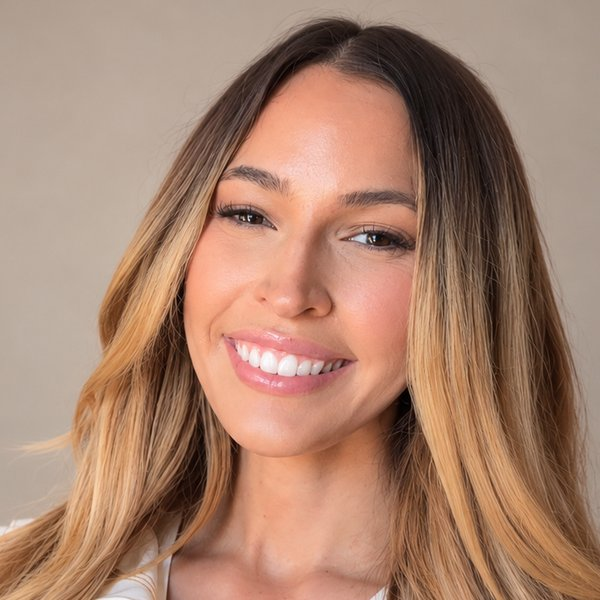
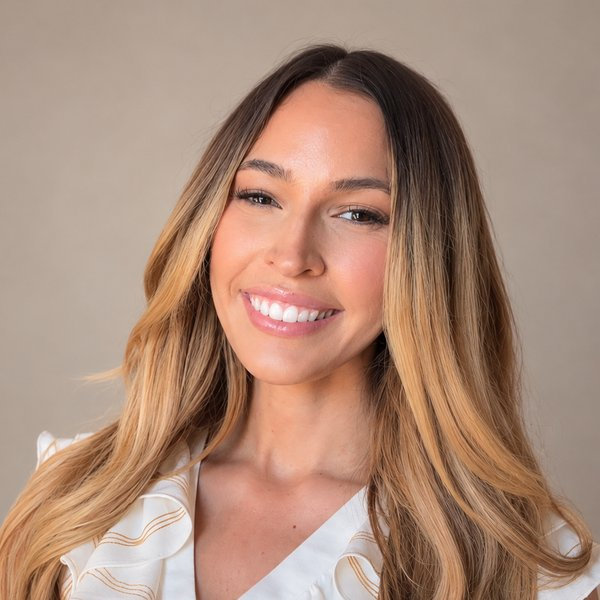
About: zoom out headshot; Nurse instead of LPN
Claude-Session: https://claude.ai/code/session_01E912zwUzE3eSxdDydVqBLX

diff --git a/index.html b/index.html
@@ -246,9 +246,9 @@ footer a:hover{color:var(--teal-light)}
   <h2>A nurse who knows <em>both sides of the desk</em></h2>
   <div class="about-grid">
     <div class="about-visual">
-      <img class="about-photo" src="images/amanda-bosley.jpg" alt="Amanda Bosley, LPN, founder of Clarity Med Operations" width="150" height="150">
+      <img class="about-photo" src="images/amanda-bosley.jpg" alt="Amanda Bosley, nurse and founder of Clarity Med Operations" width="150" height="150">
       <div class="about-quote">Most practices don't have a PA problem — they have a bandwidth problem. I solve that.</div>
-      <div class="about-attr"><strong>Amanda Bosley, LPN · Founder</strong>Clarity Med Operations LLC · West Virginia</div>
+      <div class="about-attr"><strong>Amanda Bosley, Nurse · Founder</strong>Clarity Med Operations LLC · West Virginia</div>
     </div>
     <div class="about-text">
       <p>I'm Amanda Bosley, a Nurse with <strong>15+ years of experience</strong> spanning clinical care, medical assisting, scribing, prior authorizations, referral coordination, and insurance operations.</p>
